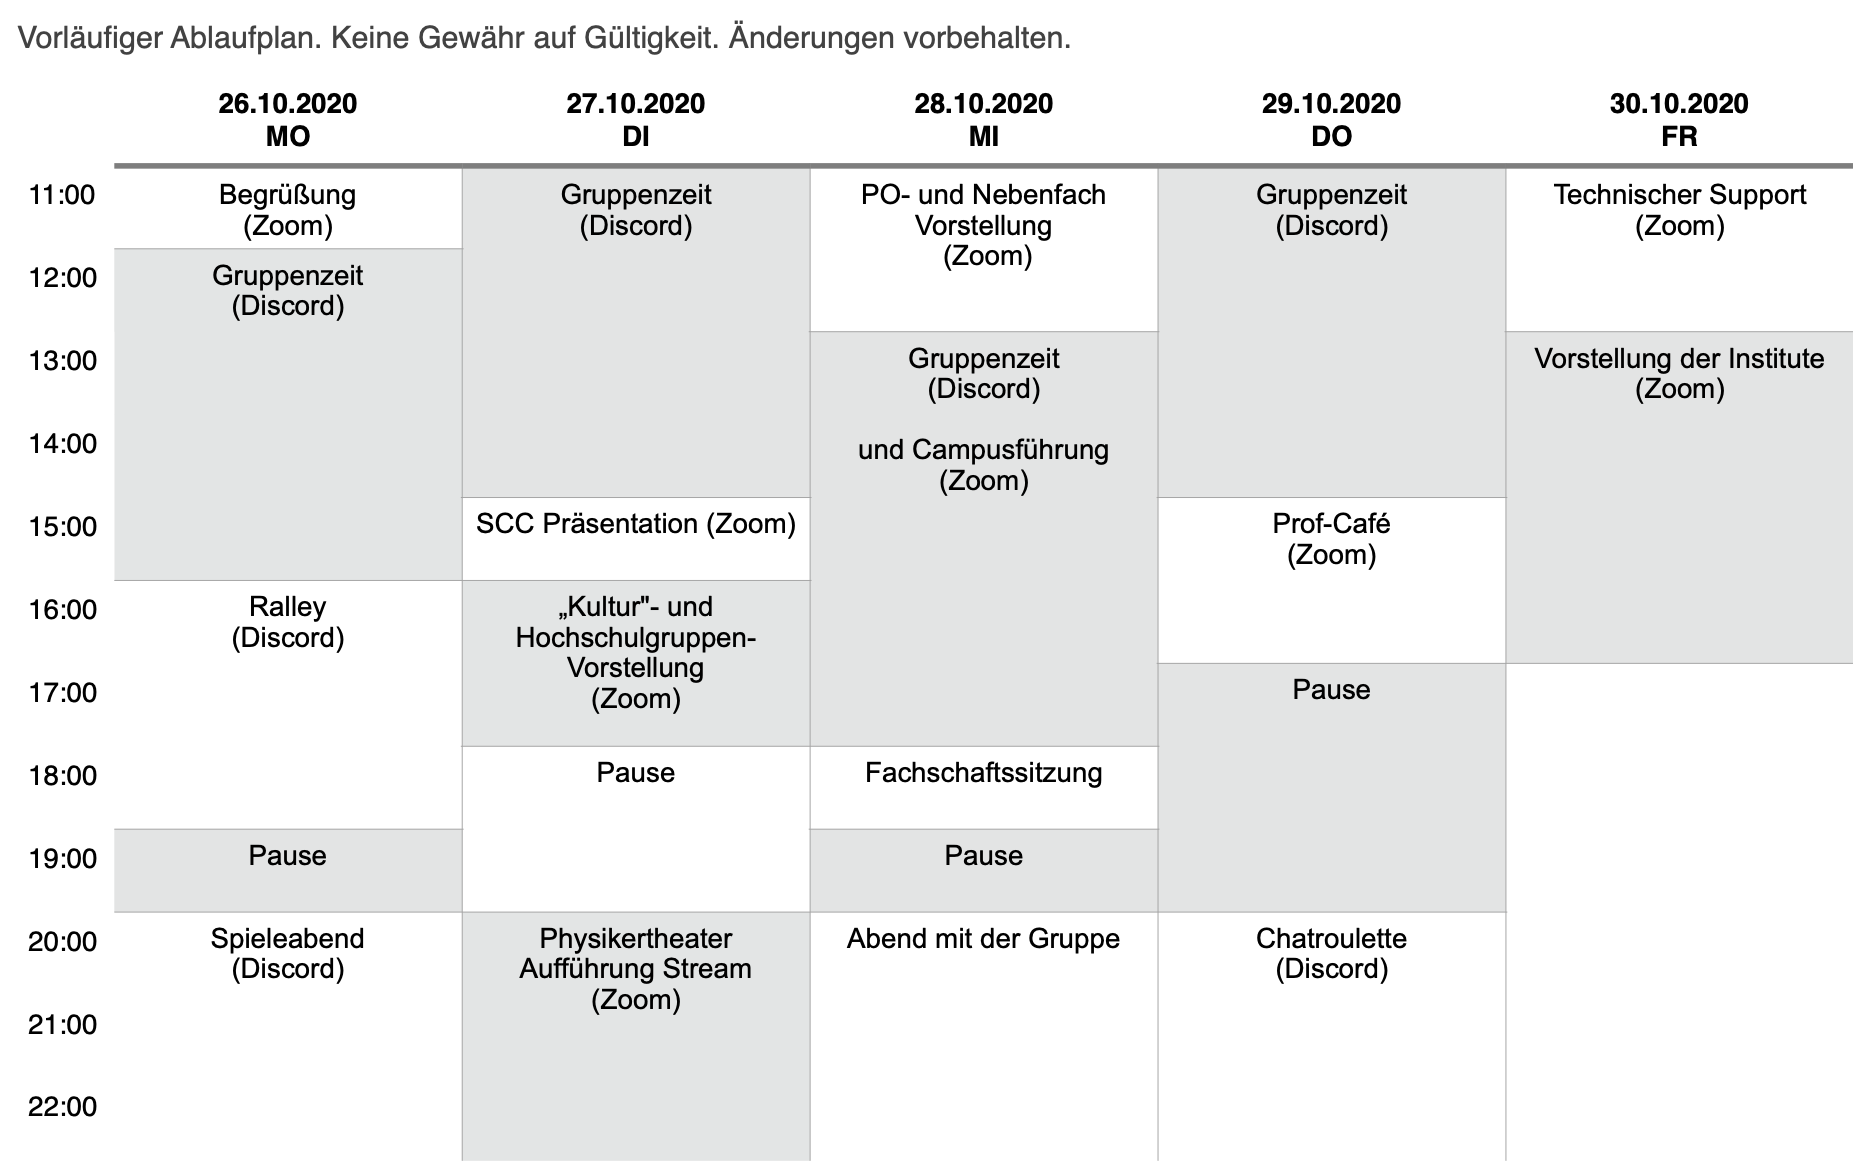
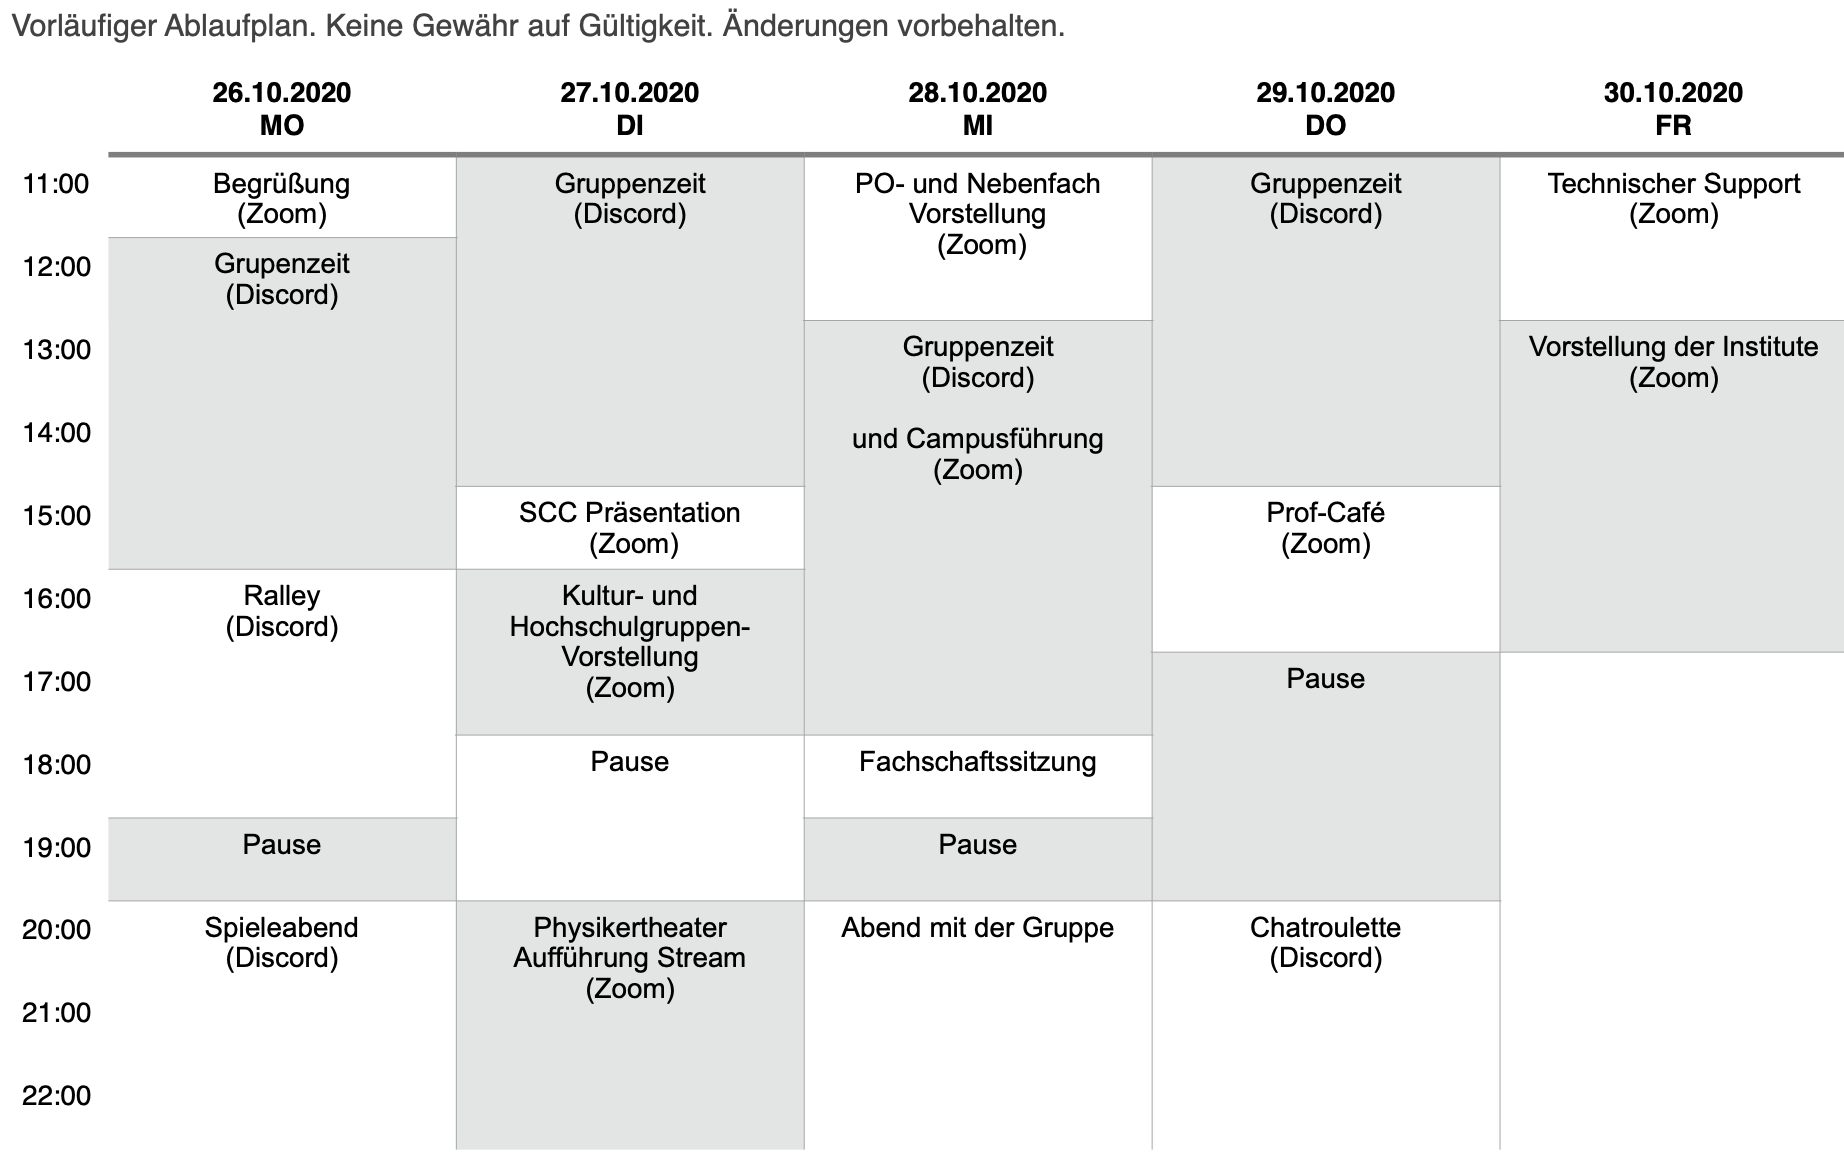
added english time table

diff --git a/english/index.php b/english/index.php
@@ -30,7 +30,7 @@
 				Please download the programs <a href="https://zoom.us/download"> Zoom </a> and <a href = "https://discord.com/download"> Discord </a> which we will mainly use for presentations and communication. You can find more information about this in the <a href="<?= dirname($_SERVER['PHP_SELF'])?>/faq">FAQ</a>.
 			</p>
 
-			<img src="../images/zeitplan.png" alt="Zeitplan" class="zeitplan">
+			<img src="../images/zeitplan_en.png" alt="Zeitplan" class="zeitplan">
 
 
 

diff --git a/english/programm.php b/english/programm.php
@@ -15,7 +15,7 @@
 
 
 
-		<img src="../images/zeitplan.png" alt="Zeitplan" class="zeitplan">
+		<img src="../images/zeitplan_en.png" alt="Zeitplan" class="zeitplan">
 
 
 	
